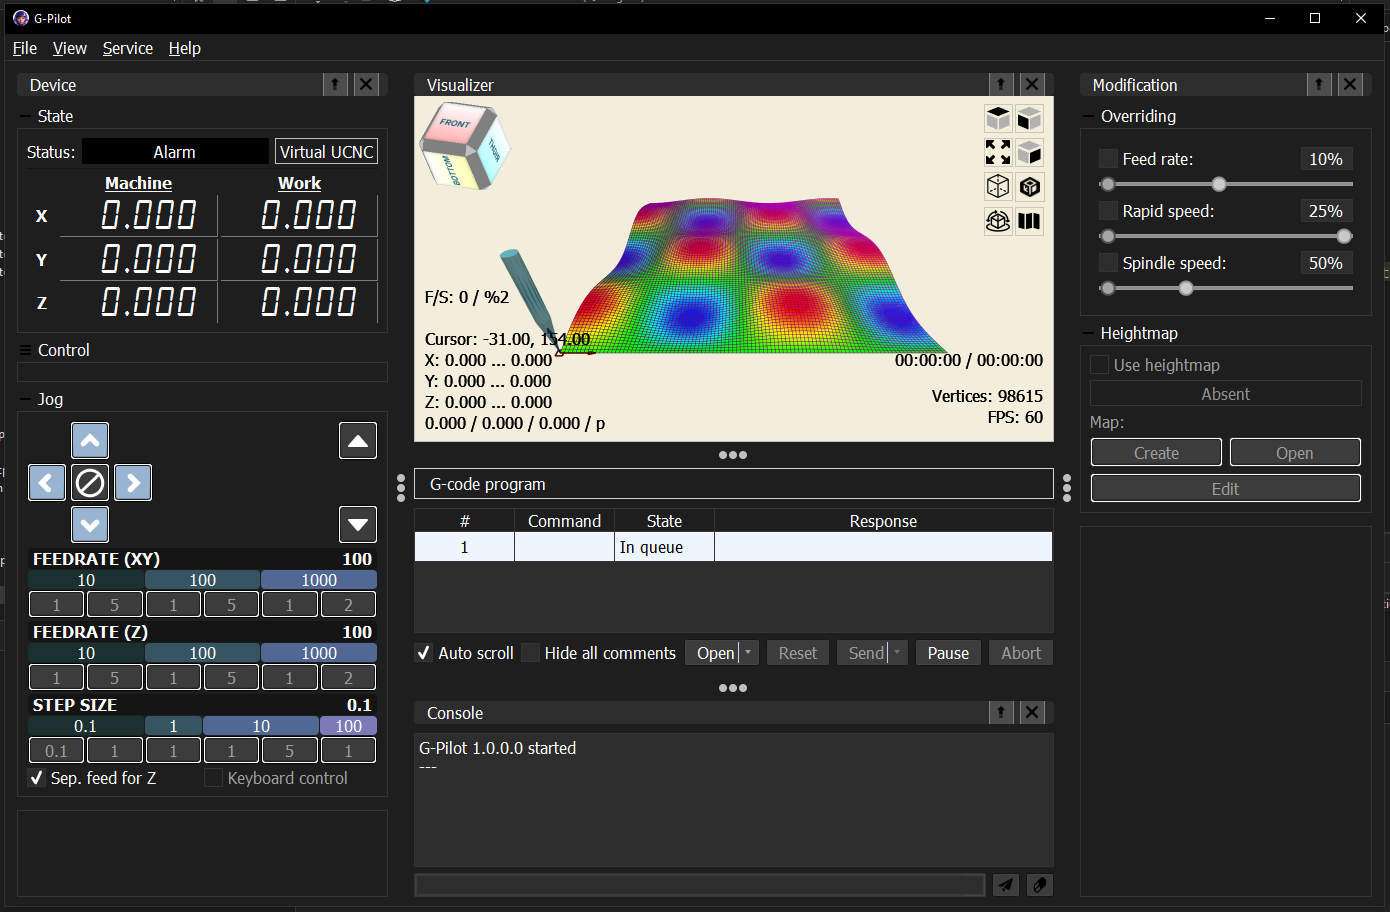
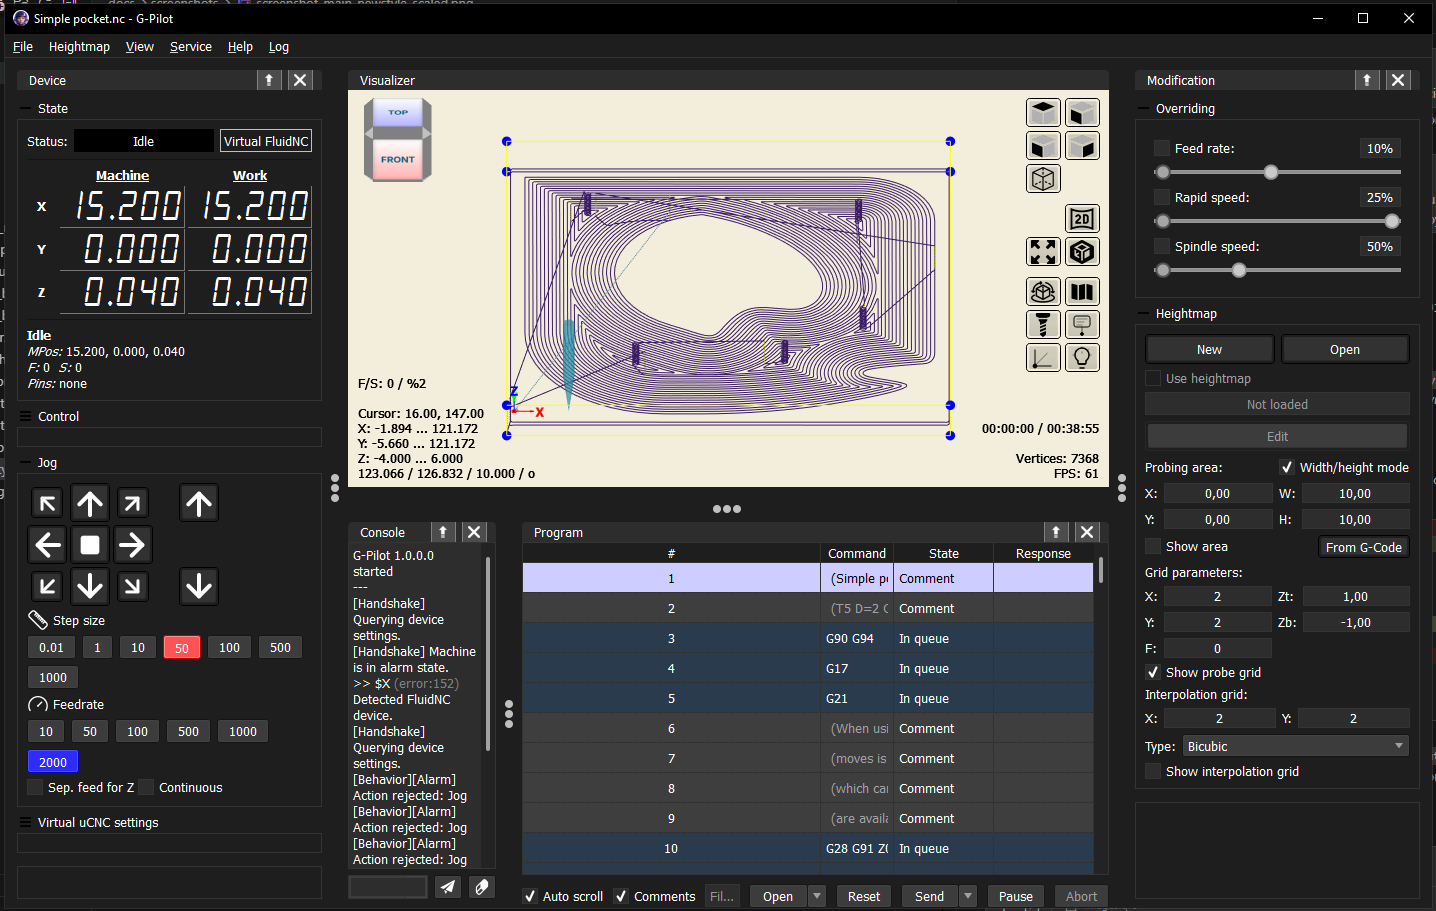
Docs / screenshots

diff --git a/docs/jogging.md b/docs/jogging.md
@@ -1,0 +1,36 @@
+---
+title: Jogging
+---
+
+# Jogging
+
+Jogging allows manual movement of the CNC machine axes directly from the application, without sending a G-code program. This is useful for positioning the machine, setting work coordinates, or inspecting the workpiece.
+
+## Axes and directions
+
+- **XY axes** — movement in 8 directions: along X, along Y, and diagonally (4 diagonal combinations)
+- **Z axis** — movement up or down
+
+## Movement modes
+
+**Continuous** — the machine moves for as long as the button is held down.
+
+**Step** — the machine moves by a fixed distance with each button press. The step size is selected from a configurable set of values (e.g. 0.1, 1, 10 mm).
+
+## Jog panel
+
+All jogging controls and parameters are located in a single panel:
+
+- Direction buttons for XY and Z
+- Mode toggle (continuous / step)
+- Step size selection (active when step mode is on)
+- Feed rate for XY axes
+- Feed rate for Z axis (optional, see below)
+
+![Jog panel](screenshots/screenshot_jogging_panel.png)
+
+## Separate Z feed rate
+
+The Z axis often requires more careful and precise movement than XY — for example, when probing the workpiece surface or approaching a fragile tool. For this reason, a separate feed rate can be configured for Z. When enabled, Z movements use their own speed setting independent of the XY feed rate.
+
+![Jogging settings](screenshots/screenshot_jogging_settings.png)

diff --git a/docs/index.md b/docs/index.md
@@ -36,6 +36,7 @@ Main documentation pages available in this folder:
 
 - [About G-Pilot](about.md)
 - [User interface](ui.md)
+- [Jogging](jogging.md)
 - [G-code editing](gcode-editing.md)
 - [Connection and virtual modes](connection-modes.md)
 - [Log browser](log-browser.md)

diff --git a/docs/screenshots.md b/docs/screenshots.md
@@ -29,3 +29,7 @@ This page collects selected screenshots of G-Pilot. They are useful to quickly s
 ## G-code editor
 
 ![G-code editor](screenshots/screenshot_gcode_editor.png)
+
+## Jog panel
+
+![Jog panel](screenshots/screenshot_jogging_panel.png)
